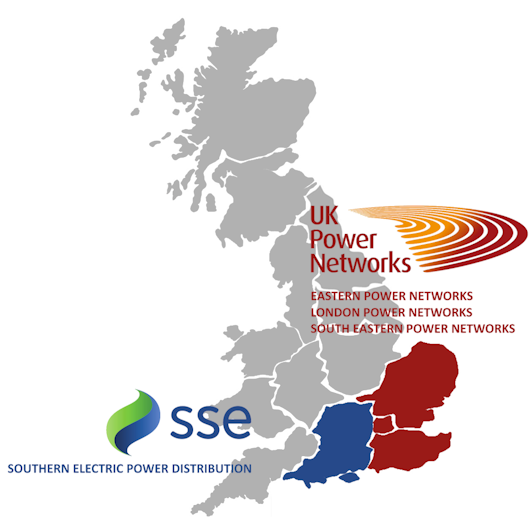
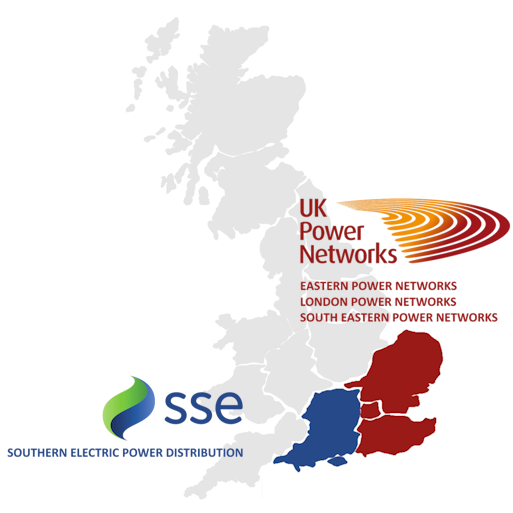
centre

diff --git a/css/style.css b/css/style.css
@@ -731,11 +731,14 @@ a:focus {
   margin: 0;
 }
 
-.client_section .img-box {
-  display: -webkit-box;
-  display: -ms-flexbox;
-  display: flex;
-}
+    .client_section .img-box {
+        display: -webkit-box;
+        display: -ms-flexbox;
+        display: flex;
+        -webkit-box-pack: center;
+        -ms-flex-pack: center;
+        justify-content: center;
+    }
 
 .client_section .img-box {
   width: 513px;
